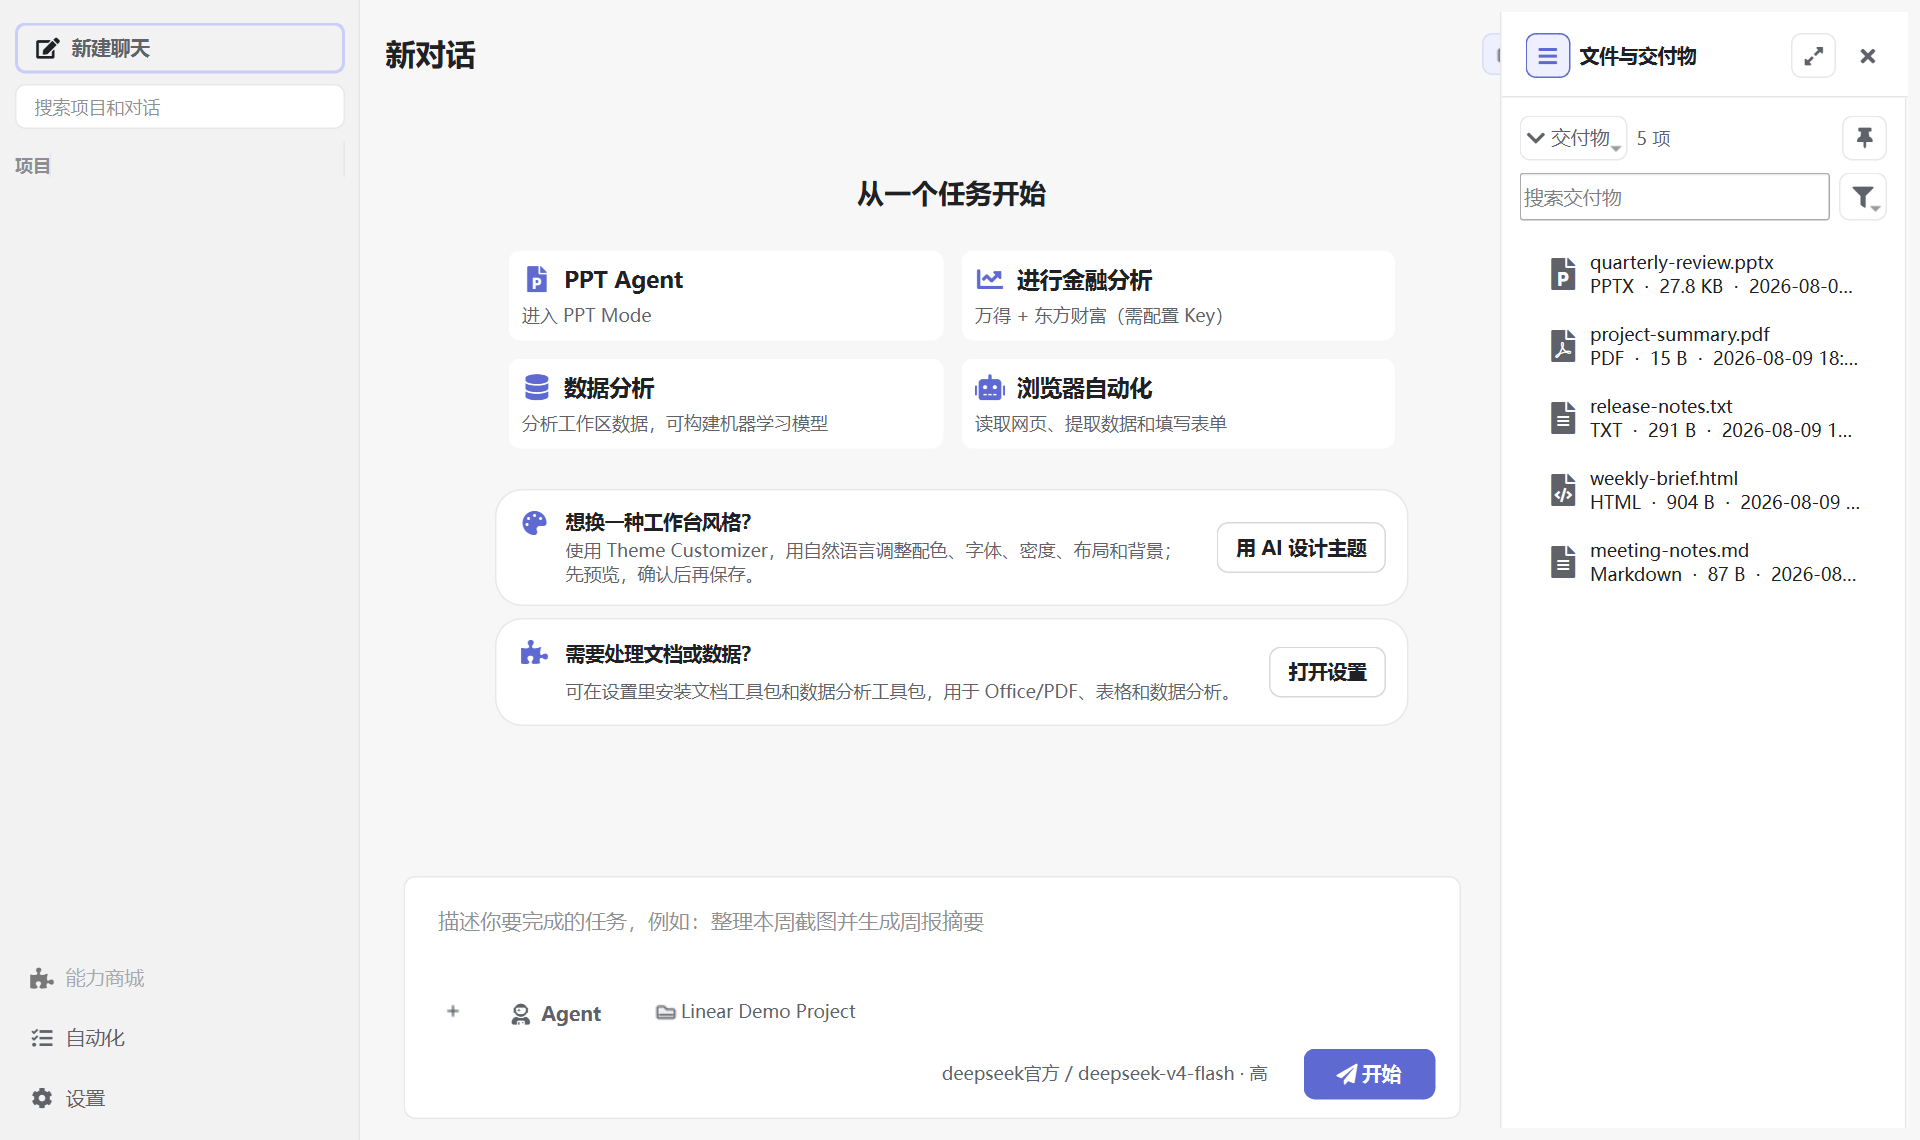
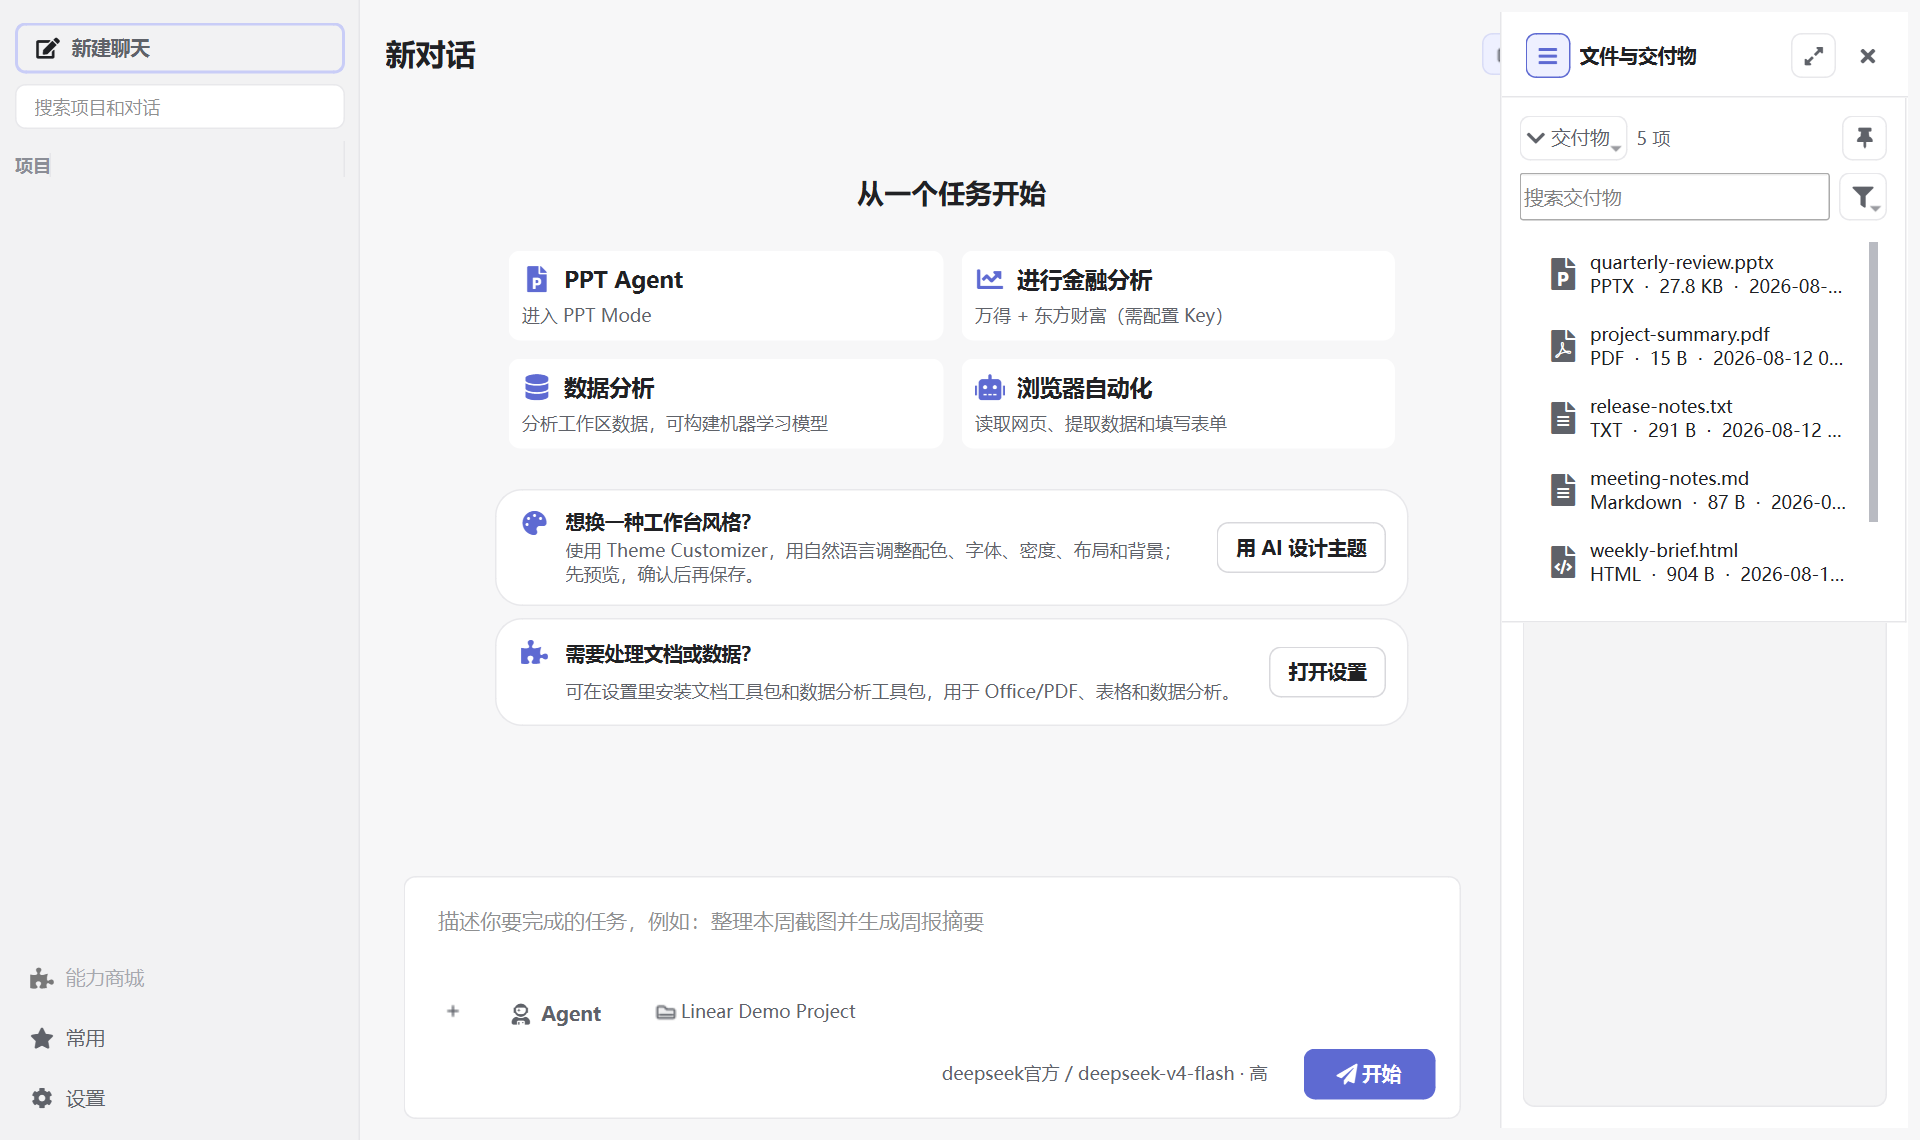
fix: 让文件导航浮层高度随文件数量自适应

Changed region(s): [[0.8125, 0.2149, 1.0, 0.5219], [0.0, 0.8904, 0.0625, 0.9211]]

diff --git a/main.py b/main.py
@@ -21290,6 +21290,7 @@ class FileWorkbench(QWidget):
         self.navigator_width = int(getattr(DesignTokens, "file_navigator_width", 320))
         self.navigator_min_width = int(getattr(DesignTokens, "file_navigator_min_width", 240))
         self.content_min_width = int(getattr(DesignTokens, "file_workbench_content_min_width", 280))
+        self.navigator_preferred_height = None
         self._effective_mode = "overlay"
         self.setMinimumSize(0, 0)
         self.content.show()
@@ -21319,6 +21320,13 @@ class FileWorkbench(QWidget):
             self.update_layout()
             return
         self.editor_focus = enabled
+        self.update_layout()
+
+    def set_navigator_preferred_height(self, height):
+        preferred = None if height is None else max(1, int(height))
+        if self.navigator_preferred_height == preferred:
+            return
+        self.navigator_preferred_height = preferred
         self.update_layout()
 
     def pinned_layout_metrics(self):
@@ -21351,10 +21359,17 @@ class FileWorkbench(QWidget):
             self.content.setGeometry(nav_width + 1, 0, max(0, width - nav_width - 1), height)
         else:
             self.content.setGeometry(0, 0, width, height)
-            self.navigator.setGeometry(0, 0, nav_width, height)
+            nav_height = (
+                height
+                if self.navigator_preferred_height is None
+                else min(height, self.navigator_preferred_height)
+            )
+            self.navigator.setGeometry(0, 0, nav_width, nav_height)
+        bottom_border = "none" if pinned else f"1px solid {DesignTokens.separator}"
         self.navigator.setStyleSheet(
             f"QFrame#FileNavigatorPanel {{ background: {DesignTokens.bg_main}; "
-            f"border: none; border-right: 1px solid {DesignTokens.separator}; border-radius: 0px; }}"
+            f"border: none; border-right: 1px solid {DesignTokens.separator}; "
+            f"border-bottom: {bottom_border}; border-radius: 0px; }}"
         )
         self.content.show()
         if show_nav:
@@ -23193,6 +23208,12 @@ class MainWindow(QMainWindow):
         self.file_tree.setIconSize(QSize(18, 18))
         self.file_tree.setStyleSheet(apple_tree_style())
         self.file_tree.clicked.connect(self.on_file_clicked)
+        self.file_tree.expanded.connect(
+            lambda _index: QTimer.singleShot(0, self._sync_file_navigator_layout)
+        )
+        self.file_tree.collapsed.connect(
+            lambda _index: QTimer.singleShot(0, self._sync_file_navigator_layout)
+        )
         self.file_tree.setContextMenuPolicy(Qt.CustomContextMenu)
         self.file_tree.customContextMenuRequested.connect(self.show_file_context_menu)
 
@@ -24855,6 +24876,76 @@ class MainWindow(QMainWindow):
                 nav_button.setToolTip("隐藏文件导航")
             else:
                 nav_button.setToolTip("显示文件导航")
+        workbench.set_navigator_preferred_height(self._file_navigator_preferred_height())
+
+    def _visible_workspace_file_row_count(self, limit=1000):
+        tree = getattr(self, "file_tree", None)
+        model = getattr(self, "file_filter_model", None)
+        if tree is None or model is None:
+            return 0
+        root = tree.rootIndex()
+
+        def count_rows(parent, remaining):
+            total = 0
+            for row in range(min(model.rowCount(parent), remaining)):
+                index = model.index(row, 0, parent)
+                if not index.isValid():
+                    continue
+                total += 1
+                if total >= remaining:
+                    break
+                if tree.isExpanded(index):
+                    total += count_rows(index, remaining - total)
+                    if total >= remaining:
+                        break
+            return total
+
+        return count_rows(root, max(1, int(limit)))
+
+    def _file_navigator_preferred_height(self):
+        panel = getattr(self, "file_navigator_panel", None)
+        if panel is None or panel.layout() is None:
+            return None
+        layout = panel.layout()
+        margins = layout.contentsMargins()
+        block_heights = [int(getattr(DesignTokens, "control_height_sm", 28)) + 2]
+
+        notice = getattr(self, "file_navigator_pin_notice", None)
+        if notice is not None and not notice.isHidden():
+            available_width = max(1, int(getattr(self, "file_navigator_width", 320)) - 24)
+            notice_height = notice.heightForWidth(available_width)
+            block_heights.append(max(notice.sizeHint().height(), notice_height))
+
+        block_heights.append(int(getattr(DesignTokens, "control_height", 32)))
+        current = getattr(self, "file_navigator_current_frame", None)
+        if current is not None and not current.isHidden():
+            block_heights.append(max(1, current.sizeHint().height()))
+
+        empty = getattr(self, "file_browser_empty_state", None)
+        if empty is not None and not empty.isHidden():
+            content_height = max(120, empty.sizeHint().height())
+        else:
+            scope = getattr(self, "file_navigator_scope", self.FILE_SCOPE_DELIVERABLES)
+            if scope == self.FILE_SCOPE_DELIVERABLES:
+                rows = getattr(getattr(self, "deliverables_list", None), "count", lambda: 0)()
+                row_height = 48
+            else:
+                row_height = int(getattr(DesignTokens, "row_height", 36))
+                workbench_height = int(
+                    getattr(getattr(self, "file_workbench", None), "height", lambda: 0)()
+                )
+                visible_row_limit = max(1, workbench_height // max(1, row_height) + 1)
+                rows = self._visible_workspace_file_row_count(limit=visible_row_limit)
+            content_height = max(row_height, int(rows) * row_height + 8)
+        block_heights.append(content_height)
+
+        spacing = max(0, layout.spacing())
+        return (
+            margins.top()
+            + margins.bottom()
+            + sum(block_heights)
+            + spacing * max(0, len(block_heights) - 1)
+        )
 
     @staticmethod
     def _file_tab_path_key(path):
@@ -25149,6 +25240,7 @@ class MainWindow(QMainWindow):
             filter_button.setToolTip("类型与排序（已筛选）" if filter_active else "类型与排序")
         self._sync_current_file_filter_notice()
         self._sync_file_browser_empty_state()
+        self._sync_file_navigator_layout()
 
     def clear_deliverable_filters(self):
         search = getattr(self, "file_search_input", None)

diff --git a/test/test_file_workbench_question_navigator.py b/test/test_file_workbench_question_navigator.py
@@ -71,6 +71,62 @@ class FileWorkbenchTest(unittest.TestCase):
         self.assertTrue(workbench.navigator_pinned)
         workbench.close()
 
+    def test_overlay_navigator_uses_content_height_and_pinned_mode_stays_full_height(self):
+        navigator = QFrame()
+        navigator.setObjectName("FileNavigatorPanel")
+        content = QWidget()
+        workbench = FileWorkbench(navigator, content)
+        workbench.resize(860, 520)
+        workbench.set_navigator_preferred_height(176)
+        workbench.set_navigator_state(visible=True, pinned=False, width=300)
+        workbench.show()
+        self.app.processEvents()
+
+        self.assertEqual(navigator.height(), 176)
+        self.assertEqual(content.height(), workbench.height())
+        self.assertIn("border-bottom: 1px solid", navigator.styleSheet())
+
+        workbench.set_navigator_state(pinned=True)
+        self.app.processEvents()
+        self.assertTrue(workbench.is_effectively_pinned())
+        self.assertEqual(navigator.height(), workbench.height())
+        self.assertIn("border-bottom: none", navigator.styleSheet())
+
+        workbench.resize(500, 520)
+        self.app.processEvents()
+        self.assertFalse(workbench.is_effectively_pinned())
+        self.assertEqual(navigator.height(), 176)
+        workbench.close()
+
+    def test_preferred_overlay_height_tracks_visible_workspace_rows(self):
+        panel = QFrame()
+        layout = QVBoxLayout(panel)
+        layout.setContentsMargins(12, 12, 12, 12)
+        layout.setSpacing(8)
+        host = type("_FileNavigatorHost", (), {})()
+        host.FILE_SCOPE_DELIVERABLES = "deliverables"
+        host.FILE_SCOPE_WORKSPACE = "workspace"
+        host.file_navigator_panel = panel
+        host.file_navigator_scope = host.FILE_SCOPE_WORKSPACE
+        host.file_navigator_pin_notice = QLabel()
+        host.file_navigator_pin_notice.hide()
+        host.file_navigator_current_frame = QFrame()
+        host.file_navigator_current_frame.hide()
+        host.file_browser_empty_state = QFrame()
+        host.file_browser_empty_state.hide()
+        host.file_workbench = QWidget()
+        host.file_workbench.resize(700, 520)
+        host._visible_workspace_file_row_count = lambda limit=1000: 1
+
+        one_row_height = MainWindow._file_navigator_preferred_height(host)
+        host._visible_workspace_file_row_count = lambda limit=1000: 6
+        six_row_height = MainWindow._file_navigator_preferred_height(host)
+
+        self.assertEqual(
+            six_row_height - one_row_height,
+            5 * DesignTokens.row_height,
+        )
+
 
 class FileTabStripTest(unittest.TestCase):
     @classmethod
